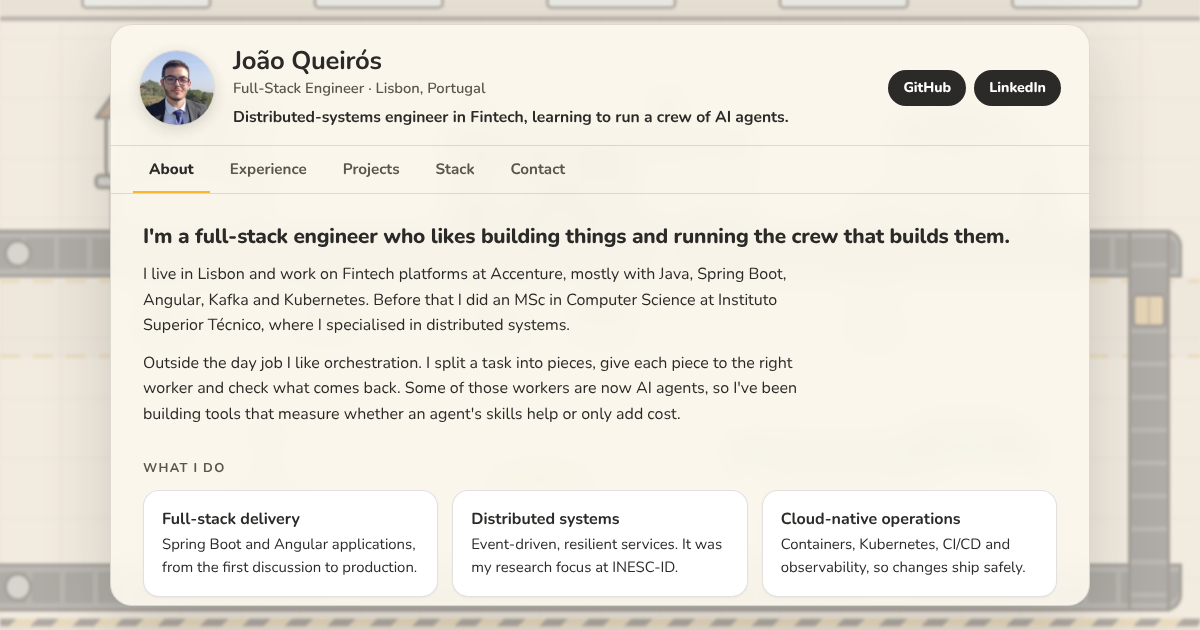
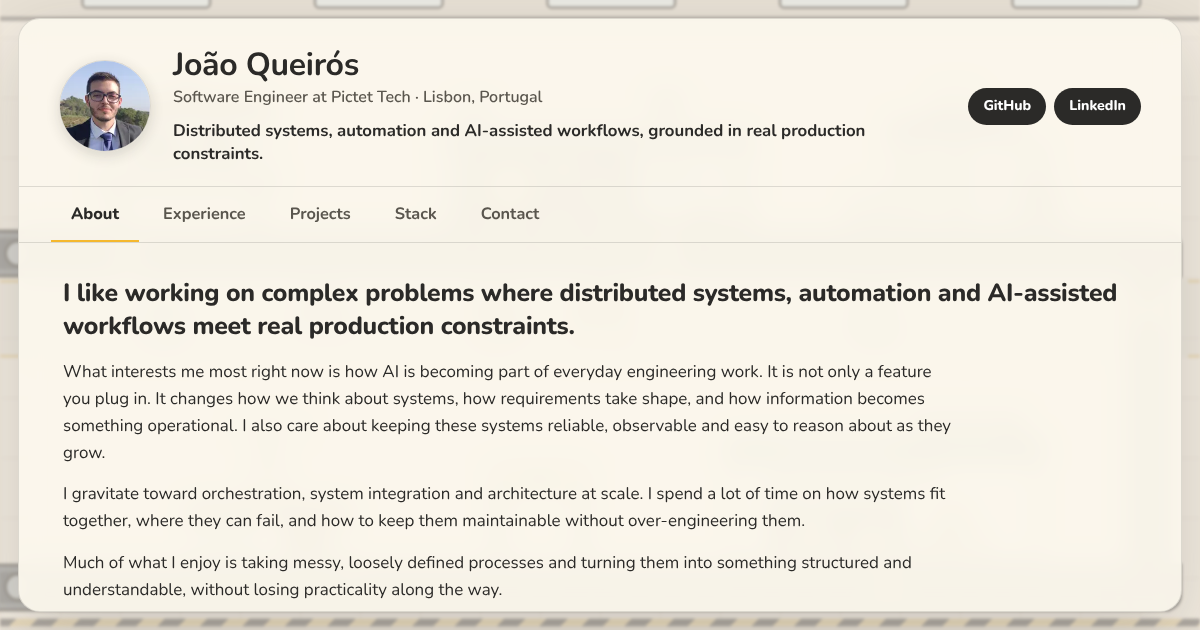
Rebuild the copy from the LinkedIn profile and enlarge the main card
Replace the agent-crew framing with the real story: Software Engineer at
Pictet Tech leading an LLM-powered automation platform on Kafka, IBM MQ and
Temporal, plus the Accenture and INESC-ID roles, a rewritten About, stack
and services in the owner's own wording, and the current LinkedIn URL. The
main card is now larger with bigger type; the factory stays as a quiet
backdrop with no copy about agents.

Claude-Session: https://claude.ai/code/session_011MQ3ZkFG5J2yQ8rwaWer5u

Changed region(s): [[0.0, 0.0302, 0.9867, 0.9952]]

diff --git a/src/data/content.ts b/src/data/content.ts
@@ -1,8 +1,9 @@
 export const profile = {
   name: 'João Queirós',
-  role: 'Full-Stack Engineer',
+  role: 'Software Engineer',
+  employer: 'Pictet Tech',
   place: 'Lisbon, Portugal',
-  linkedin: 'https://www.linkedin.com/in/jo%C3%A3o-queir%C3%B3s-659549b0/',
+  linkedin: 'https://www.linkedin.com/in/joaomiguelqueiros/',
   github: 'https://github.com/Senpawaii',
 };
 
@@ -10,35 +11,22 @@ export type StationId = 'about' | 'stack' | 'projects' | 'resume' | 'contact';
 
 export const services = [
   ['Full-stack delivery', 'Spring Boot and Angular applications, from the first discussion to production.'],
-  ['Distributed systems', 'Event-driven, resilient services. It was my research focus at INESC-ID.'],
-  ['Cloud-native operations', 'Containers, Kubernetes, CI/CD and observability, so changes ship safely.'],
-  ['AI-assisted engineering', 'Directing agents like a crew, then benchmarking them to see whether they help.'],
+  ['Event-driven and workflow systems', 'Kafka, IBM MQ and Temporal, built to stay reliable and easy to reason about as they grow.'],
+  ['AI-powered automation', 'Using LLMs to turn unstructured documents into structured payloads for banking systems.'],
+  ['Technical leadership', 'Code review, mentoring, and shaping the backlog with product owners and stakeholders.'],
 ] as const;
 
 export const stack: { group: string; items: string[] }[] = [
-  { group: 'Backend', items: ['Java 17/21', 'Spring Boot', 'Spring Security', 'OAuth 2', 'Kafka', 'Oracle DB', 'Python', 'C/C++'] },
-  { group: 'Frontend', items: ['Angular', 'TypeScript', 'RxJS'] },
-  { group: 'Cloud & delivery', items: ['Docker', 'Kubernetes', 'Helm', 'ArgoCD', 'GitHub Actions', 'AWS (EC2, RDS)', 'GCP'] },
-  { group: 'Quality & observability', items: ['JUnit 5', 'Mockito', 'Testcontainers', 'PIT mutation testing', 'Grafana', 'Jaeger'] },
-  { group: 'Architecture', items: ['Microservices', 'Event-driven', 'Clean / Hexagonal', 'Domain-Driven Design'] },
-  { group: 'AI workflows', items: ['Claude Code', 'Agent skills', 'Skill benchmarking', 'LLM-as-judge evals'] },
+  { group: 'Languages and frameworks', items: ['Java 17/21', 'Spring Boot', 'Angular', 'TypeScript', 'RxJS', 'Python', 'C/C++'] },
+  { group: 'Messaging and orchestration', items: ['Apache Kafka', 'IBM MQ', 'Temporal', 'Event-driven architecture'] },
+  { group: 'Data', items: ['PostgreSQL', 'Oracle DB'] },
+  { group: 'Delivery and operations', items: ['Docker', 'Kubernetes', 'Helm', 'ArgoCD', 'GitHub Actions', 'AWS', 'GCP'] },
+  { group: 'Observability, quality and security', items: ['Loki, Grafana, Tempo, Mimir', 'Jaeger', 'JUnit 5', 'Mockito', 'Testcontainers', 'PIT mutation testing', 'OAuth2', 'Spring Security'] },
+  { group: 'Architecture and leadership', items: ['Software architecture', 'Distributed systems', 'API design', 'Domain-driven design', 'Technical leadership', 'Mentoring', 'Code review'] },
+  { group: 'AI in engineering', items: ['LLM-based document processing', 'Claude Code', 'Agent skills and evals'] },
 ];
 
 export const projects = [
-  {
-    name: 'grimoire-lab',
-    url: 'https://github.com/Senpawaii/grimoire-lab',
-    tag: 'AI tooling',
-    text: 'Benchmarks AI agent skills by running a task suite with and without the skill, then comparing pass rate, tokens, cost and time.',
-    tech: ['TypeScript', 'Node.js', 'SQLite', 'Vitest'],
-  },
-  {
-    name: 'spellbook',
-    url: 'https://github.com/Senpawaii/spellbook',
-    tag: 'AI tooling',
-    text: 'My personal agent skills, versioned with semver tags, each shipped with a benchmark suite so changes are measured.',
-    tech: ['Markdown', 'YAML', 'GitHub Actions'],
-  },
   {
     name: 'Argus',
     url: 'https://github.com/Senpawaii/Argus',
@@ -67,40 +55,75 @@ export const projects = [
     text: 'A fork of Microsoft’s microservices reference application, which I used as a testbed for my MSc research on consistency.',
     tech: ['.NET', 'Kubernetes', 'RabbitMQ'],
   },
+  {
+    name: 'grimoire-lab',
+    url: 'https://github.com/Senpawaii/grimoire-lab',
+    tag: 'AI tooling',
+    text: 'Benchmarks AI agent skills by running a task suite with and without the skill, then comparing pass rate, tokens, cost and time.',
+    tech: ['TypeScript', 'Node.js', 'SQLite', 'Vitest'],
+  },
+  {
+    name: 'spellbook',
+    url: 'https://github.com/Senpawaii/spellbook',
+    tag: 'AI tooling',
+    text: 'My personal agent skills, versioned with semver tags, each shipped with a benchmark suite so changes are measured.',
+    tech: ['Markdown', 'YAML', 'GitHub Actions'],
+  },
 ];
 
 export const experience = [
   {
-    org: 'Accenture Portugal',
-    ctx: 'Fintech',
-    when: 'Nov 2023 to Present',
+    org: 'Pictet Tech',
+    ctx: 'Banking technology',
+    when: 'Dec 2023 to Present',
     roles: [
       {
-        title: 'Mid Full-Stack Engineer',
-        when: 'Apr 2025 to Present',
+        title: 'Software Engineer',
+        when: '',
+        points: [
+          'Lead the development of an AI-powered automation platform that turns unstructured data into structured, contract-aligned payloads for internal banking systems.',
+          'Designed and built a self-service solution that uses LLMs to process different document types through modular connectors, so extraction workflows are scalable and reusable.',
+          'Own the platform end to end (architecture, design, implementation and delivery) and became its primary technical authority after the initial architecture handover.',
+          'Architect event-driven, workflow-based systems with Kafka, IBM MQ and Temporal for resilience, scalability and reliable orchestration of complex processes.',
+          'Automated manual, time-intensive operational processes, which cut processing overhead for internal teams.',
+          'Act as project lead in the team: review code, mentor engineers, and push for good practice in collaboration, quality and system design.',
+          'Define and prioritise the backlog with Product Owners and Project Managers, and work directly with stakeholders and end users on discovery and feedback.',
+          'Build and maintain CI/CD with GitHub Actions and ArgoCD, run observability and incident analysis on the LGTM stack, and enforce OAuth2 and Spring Security across services.',
+        ],
+      },
+    ],
+  },
+  {
+    org: 'Accenture Portugal',
+    ctx: 'Fintech',
+    when: 'Nov 2023 to Nov 2025',
+    roles: [
+      {
+        title: 'System Developer Analyst (Mid Full-Stack Engineer)',
+        when: 'Apr 2025 to Nov 2025',
         points: [
           'Resolved long-standing application bottlenecks, improving throughput and latency by roughly 300%.',
-          'Led the migration of legacy applications to Spring Boot and Angular 19.',
-          'Co-led a monitoring tool tracking deployments, downtime, error logs and integrations across 10+ applications.',
-          'Run CI/CD with GitHub Actions and ArgoCD; trace and load-test distributed systems with Jaeger.',
-          'Secure service-to-service access with Spring Security and OAuth 2; keep test quality high with mutation testing (PIT).',
+          'Co-led the migration of legacy applications to Spring Boot and Angular 19.',
+          'Co-designed a monitoring tool for 10+ applications, tracking deployments, downtime, error logs and integration health.',
+          'Ran CI/CD with GitHub Actions, Bamboo and ArgoCD, and traced and load-tested distributed systems with Jaeger.',
+          'Enforced Spring Security and OAuth 2 across services, and kept test quality high with mutation testing (PIT).',
         ],
       },
       {
-        title: 'Junior Full-Stack Engineer',
-        when: 'Nov 2023 to Mar 2025',
+        title: 'App/Cloud Support Associate (Junior Full-Stack Engineer)',
+        when: 'Nov 2023 to Apr 2025',
         points: [
-          'Raised test coverage across several products from 20 to 30% to above 90%.',
-          'Built the integration-test infrastructure for legacy products with colleagues.',
-          'Helped migrate deployments to AWS Kubernetes clusters and shortened feature delivery times.',
-          'Co-led the work that unblocked a three-year integration between two platforms in a Fintech automation initiative.',
+          'Co-led the work that unblocked a three-year Fintech integration project.',
+          'Raised test coverage across several products from 20 to 30% to above 90%, and built the integration-test infrastructure for legacy systems.',
+          'Migrated deployments to AWS Kubernetes, improving the CI/CD pipeline and delivery times.',
+          'Worked in an Agile team on Spring Boot, Java 17/21, Angular, JUnit, Docker and Kafka, with peer code reviews.',
         ],
       },
     ],
   },
   {
     org: 'INESC-ID Lisbon',
-    ctx: 'Research',
+    ctx: 'Research internship',
     when: 'Feb 2023 to Nov 2023',
     roles: [
       {

diff --git a/src/styles/global.css b/src/styles/global.css
@@ -146,39 +146,39 @@ a { color: inherit; }
 
 
 /* ---------- the page ---------- */
-.page { position: relative; z-index: 1; height: 100dvh; padding: 24px; display: grid; grid-template-columns: minmax(0, 1fr); place-items: center; }
+.page { position: relative; z-index: 1; height: 100dvh; padding: 18px; display: grid; grid-template-columns: minmax(0, 1fr); place-items: center; }
 .glass {
   background: rgba(251, 246, 236, .94); backdrop-filter: blur(12px); -webkit-backdrop-filter: blur(12px);
   border: 1px solid rgba(43, 42, 40, .14); border-radius: 22px; box-shadow: 0 24px 70px rgba(43, 42, 40, .18);
 }
-.id { display: flex; align-items: center; gap: 18px; padding: 22px 28px 16px; flex: none; }
-.portrait { width: 76px; height: 76px; flex: none; object-fit: cover; border-radius: 50%; border: 1px solid var(--line); box-shadow: 0 4px 14px rgba(43,42,40,.16); }
+.id { display: flex; align-items: center; gap: 22px; padding: 28px 40px 20px; flex: none; }
+.portrait { width: 92px; height: 92px; flex: none; object-fit: cover; border-radius: 50%; border: 1px solid var(--line); box-shadow: 0 4px 14px rgba(43,42,40,.16); }
 .id-text { min-width: 0; }
-.id h1 { margin: 0; font-size: 1.6rem; line-height: 1.1; letter-spacing: -.01em; }
-.id-role { margin: 2px 0 0; color: var(--ink-2); font-weight: 600; font-size: .92rem; }
-.tagline { margin: 6px 0 0; font-weight: 700; font-size: .98rem; line-height: 1.4; }
+.id h1 { margin: 0; font-size: 2rem; line-height: 1.1; letter-spacing: -.01em; }
+.id-role { margin: 3px 0 0; color: var(--ink-2); font-weight: 600; font-size: 1rem; }
+.tagline { margin: 8px 0 0; font-weight: 700; font-size: 1.05rem; line-height: 1.4; }
 .social { display: flex; gap: 8px; margin-left: auto; flex: none; }
 .social a { text-decoration: none; font-weight: 800; font-size: .88rem; padding: 7px 15px; border-radius: 999px; background: var(--ink); color: #fff; transition: transform .12s, background .12s; }
 .social a:hover { background: var(--accent); transform: translateY(-1px); }
 
-.card { display: flex; flex-direction: column; width: min(980px, 100%); height: min(820px, calc(100dvh - 48px)); min-height: 0; overflow: hidden; }
-.tabs { display: flex; gap: 4px; padding: 0 22px; border-top: 1px solid var(--line); border-bottom: 1px solid var(--line); overflow-x: auto; flex: none; }
+.card { display: flex; flex-direction: column; width: min(1240px, 100%); height: min(980px, calc(100dvh - 36px)); min-height: 0; overflow: hidden; }
+.tabs { display: flex; gap: 4px; padding: 0 32px; border-top: 1px solid var(--line); border-bottom: 1px solid var(--line); overflow-x: auto; flex: none; }
 .tabs button {
-  all: unset; cursor: pointer; padding: 11px 16px 10px; font-weight: 700; font-size: .95rem; color: var(--ink-2);
+  all: unset; cursor: pointer; padding: 14px 20px 13px; font-weight: 700; font-size: 1.02rem; color: var(--ink-2);
   border-bottom: 3px solid transparent; margin-bottom: -1px; white-space: nowrap; transition: color .12s;
 }
 .tabs button:hover { color: var(--ink); }
 .tabs button[aria-selected=true] { color: var(--ink); font-weight: 800; border-bottom-color: var(--yellow); }
 .tabs button:focus-visible { outline: 3px solid var(--orange); border-radius: 8px; }
-.panes { overflow-y: auto; padding: 28px 32px 32px;  min-height: 0; flex: 1; overscroll-behavior: contain; }
+.panes { overflow-y: auto; font-size: 1.06rem; padding: 34px 44px 40px;  min-height: 0; flex: 1; overscroll-behavior: contain; }
 
 /* ---------- content ---------- */
 .panes h3 { font-size: .8rem; margin: 30px 0 12px; text-transform: uppercase; letter-spacing: .1em; color: var(--ink-2); }
 .panes section > h3:first-child, .panes section > .lead:first-child { margin-top: 0; }
-.lead { font-size: 1.3rem; font-weight: 800; line-height: 1.35; margin: 0 0 14px; letter-spacing: -.01em; }
+.lead { font-size: 1.55rem; font-weight: 800; line-height: 1.35; margin: 0 0 14px; letter-spacing: -.01em; }
 .muted { color: var(--ink-2); }
-.prose p { margin: 0 0 12px; max-width: 68ch; }
-.panes p { max-width: 70ch; }
+.prose p { margin: 0 0 14px; max-width: 88ch; }
+.panes p { max-width: 88ch; }
 
 
 .cards { list-style: none; padding: 0; margin: 0; display: grid; gap: 14px; align-items: start; }
@@ -205,7 +205,7 @@ a { color: inherit; }
 .role { margin: 0 0 14px 4px; padding-left: 14px; border-left: 3px solid var(--yellow); }
 .role-title { margin: 0 0 5px; font-weight: 800; max-width: none; }
 .role ul { margin: 0; padding-left: 20px; }
-.role li { margin-bottom: 4px; max-width: 70ch; }
+.role li { margin-bottom: 6px; max-width: 80ch; }
 .poster { margin-top: 10px; }
 .poster summary { cursor: pointer; font-weight: 800; font-size: .92rem; }
 .poster img { width: 100%; height: auto; margin-top: 8px; border: 1px solid var(--line); border-radius: 10px; }
